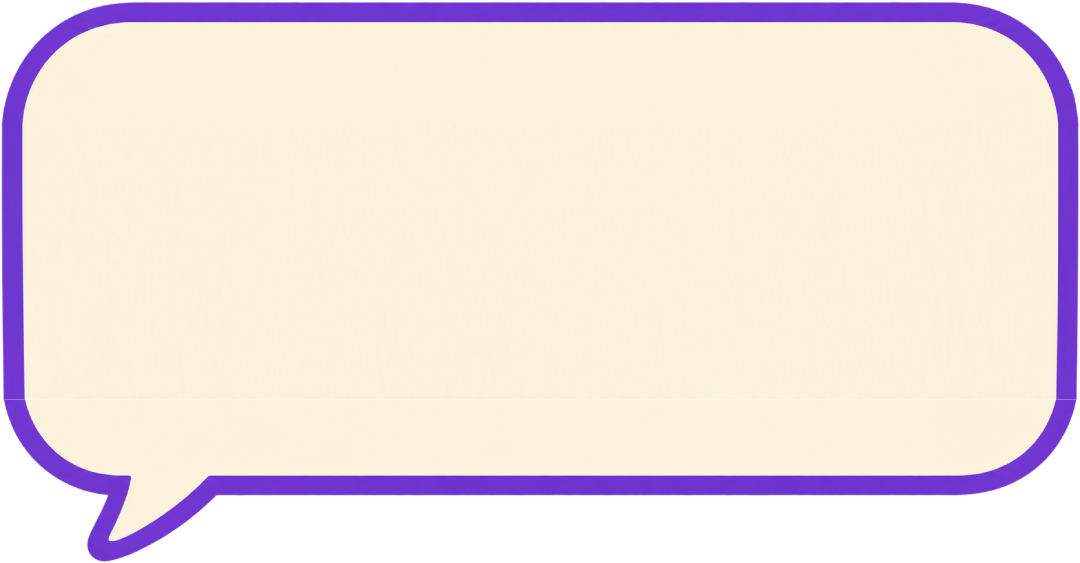
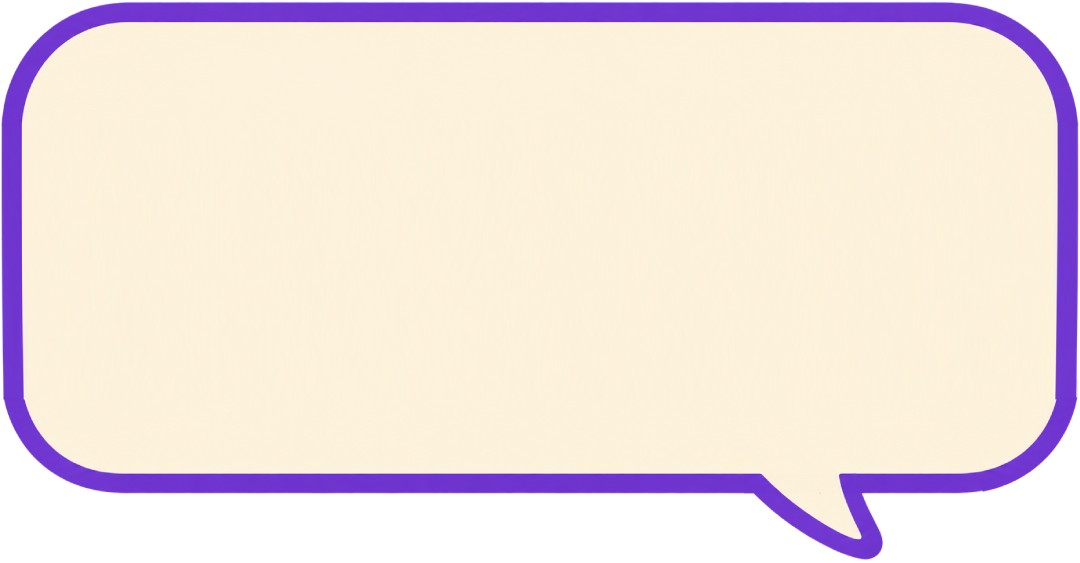
Update tutorial and configuration settings to enhance gameplay visuals and interactions. Adjust fox and bubble positioning, add spotlight functionality, and remove unused drawing logic. Update speech bubble asset for improved appearance.

diff --git a/src/Tutorial.js b/src/Tutorial.js
@@ -13,6 +13,8 @@ export class Tutorial {
     this._target = null;
     this._allow = { faucet: false, platform: false };
     this._arrowScale = 1;
+    this._lifted = null;
+    this._liftedParent = null;
 
     const cfg = config.tutorial;
     this.root = new Container();
@@ -20,25 +22,30 @@ export class Tutorial {
     this.root.eventMode = "passive";
     this.root.visible = false;
 
-    this.overlay = new Graphics();
+    this.overlay = new Graphics()
+      .rect(0, 0, config.app.width, config.app.height)
+      .fill({ color: config.ui.dim, alpha: cfg.dimAlpha });
     this.overlay.eventMode = "static";
     this.root.addChild(this.overlay);
 
+    this.spotlight = new Container();
+    this.spotlight.eventMode = "passive";
+    this.root.addChild(this.spotlight);
+
     this.fox = Sprite.from(assetUrl("fox-guide.png"));
-    this.fox.anchor.set(0, 1);
+    this.fox.anchor.set(1, 1);
     this.fox.eventMode = "none";
     fitWidth(this.fox, cfg.foxW);
-    this.fox.position.set(cfg.foxX, config.app.height - cfg.foxPad);
+    this.fox.position.set(430, config.app.height - cfg.foxPad);
+    this.fox.scale.x *= -1;
     this.root.addChild(this.fox);
 
     this.bubble = Sprite.from(assetUrl("speech-bubble.png"));
-    this.bubble.anchor.set(0, 0.5);
+    this.bubble.anchor.set(0.5);
     this.bubble.eventMode = "none";
     fitWidth(this.bubble, cfg.bubbleW);
-    this.bubble.position.set(
-      this.fox.x + this.fox.width - cfg.bubbleOverlap,
-      this.fox.y - this.fox.height * 0.55,
-    );
+    // this.bubble.scale.x *= -1;
+    this.bubble.position.set(cfg.bubbleX, cfg.bubbleY);
     this.root.addChild(this.bubble);
 
     this.speech = new Text({
@@ -55,10 +62,7 @@ export class Tutorial {
     });
     this.speech.anchor.set(0.5);
     this.speech.eventMode = "none";
-    this.speech.position.set(
-      this.bubble.x + this.bubble.width * 0.54,
-      this.bubble.y - cfg.bubblePadY,
-    );
+    this.speech.position.set(cfg.bubbleX, cfg.bubbleY - cfg.bubblePadY);
     this.root.addChild(this.speech);
 
     this.arrow = Sprite.from(assetUrl("rotating-arrow.png"));
@@ -82,6 +86,7 @@ export class Tutorial {
   }
 
   start(kind) {
+    this.drop();
     this.active = true;
     this.root.visible = true;
     this._t = 0;
@@ -93,6 +98,7 @@ export class Tutorial {
   }
 
   end() {
+    this.drop();
     this.active = false;
     this.stage = null;
     this._target = null;
@@ -102,7 +108,22 @@ export class Tutorial {
     this.root.visible = false;
     this.arrow.visible = false;
     this.hand.rotation = 0;
-    this.overlay.clear();
+  }
+
+  lift(node) {
+    this.drop();
+    if (!node) return;
+    this._lifted = node;
+    this._liftedParent = node.parent;
+    this.spotlight.addChild(node);
+  }
+
+  drop() {
+    const node = this._lifted;
+    if (!node) return;
+    this._liftedParent?.addChild(node);
+    this._lifted = null;
+    this._liftedParent = null;
   }
 
   canAim(kind) {
@@ -134,6 +155,7 @@ export class Tutorial {
     this._target = target;
     this._saved = kind === "faucet" ? target.aim : target.body.GetAngle();
     this._t = 0;
+    this.lift(target.container);
   }
 
   beginPlay() {
@@ -145,6 +167,7 @@ export class Tutorial {
     this._allow.platform = true;
     this.hand.rotation = 0;
     this.arrow.visible = false;
+    this.lift(this.game.hud.playBtn);
   }
 
   update(dt) {
@@ -155,7 +178,6 @@ export class Tutorial {
     }
     this.placeHand();
     this.placeArrow();
-    // this.drawHole();
   }
 
   stepDemo() {
@@ -206,30 +228,6 @@ export class Tutorial {
     const s = 1 + Math.sin(this._t * cfg.arrowSpeed) * cfg.arrowPulse;
     this.arrow.scale.set(this._arrowScale * s);
     this.arrow.scale.y *= -1;
-  }
-
-  drawHole() {
-    const g = this.overlay;
-    g.clear();
-    const w = config.app.width;
-    const h = config.app.height;
-    const fill = { color: config.ui.dim, alpha: config.tutorial.dimAlpha };
-    const pad = config.tutorial.holePad;
-    const node =
-      this.stage === "play" ? this.game.hud.playBtn : this._target?.container;
-    if (!node) {
-      g.rect(0, 0, w, h).fill(fill);
-      return;
-    }
-    const b = node.getBounds();
-    const hx = Math.max(0, b.x - pad);
-    const hy = Math.max(0, b.y - pad);
-    const hw = Math.max(0, Math.min(w - hx, b.width + pad * 2));
-    const hh = Math.max(0, Math.min(h - hy, b.height + pad * 2));
-    if (hy > 0) g.rect(0, 0, w, hy).fill(fill);
-    if (hy + hh < h) g.rect(0, hy + hh, w, h - hy - hh).fill(fill);
-    if (hx > 0 && hh > 0) g.rect(0, hy, hx, hh).fill(fill);
-    if (hx + hw < w && hh > 0) g.rect(hx + hw, hy, w - hx - hw, hh).fill(fill);
   }
 }
 

diff --git a/src/config.js b/src/config.js
@@ -89,16 +89,15 @@ export const config = {
     bobSpeed: 3,
     handRadius: 70,
     handArc: Math.PI,
-    foxW: 180,
-    foxX: 12,
+    foxW: 400,
     foxPad: 16,
     bubbleW: 500,
-    bubbleOverlap: 12,
+    bubbleX: 340,
+    bubbleY: 640,
     bubbleFontSize: 22,
     bubblePadX: 36,
     bubblePadY: 18,
     dimAlpha: 0.55,
-    holePad: 24,
     arrowW: 160,
     arrowPulse: 0.08,
     arrowSpeed: 3,
